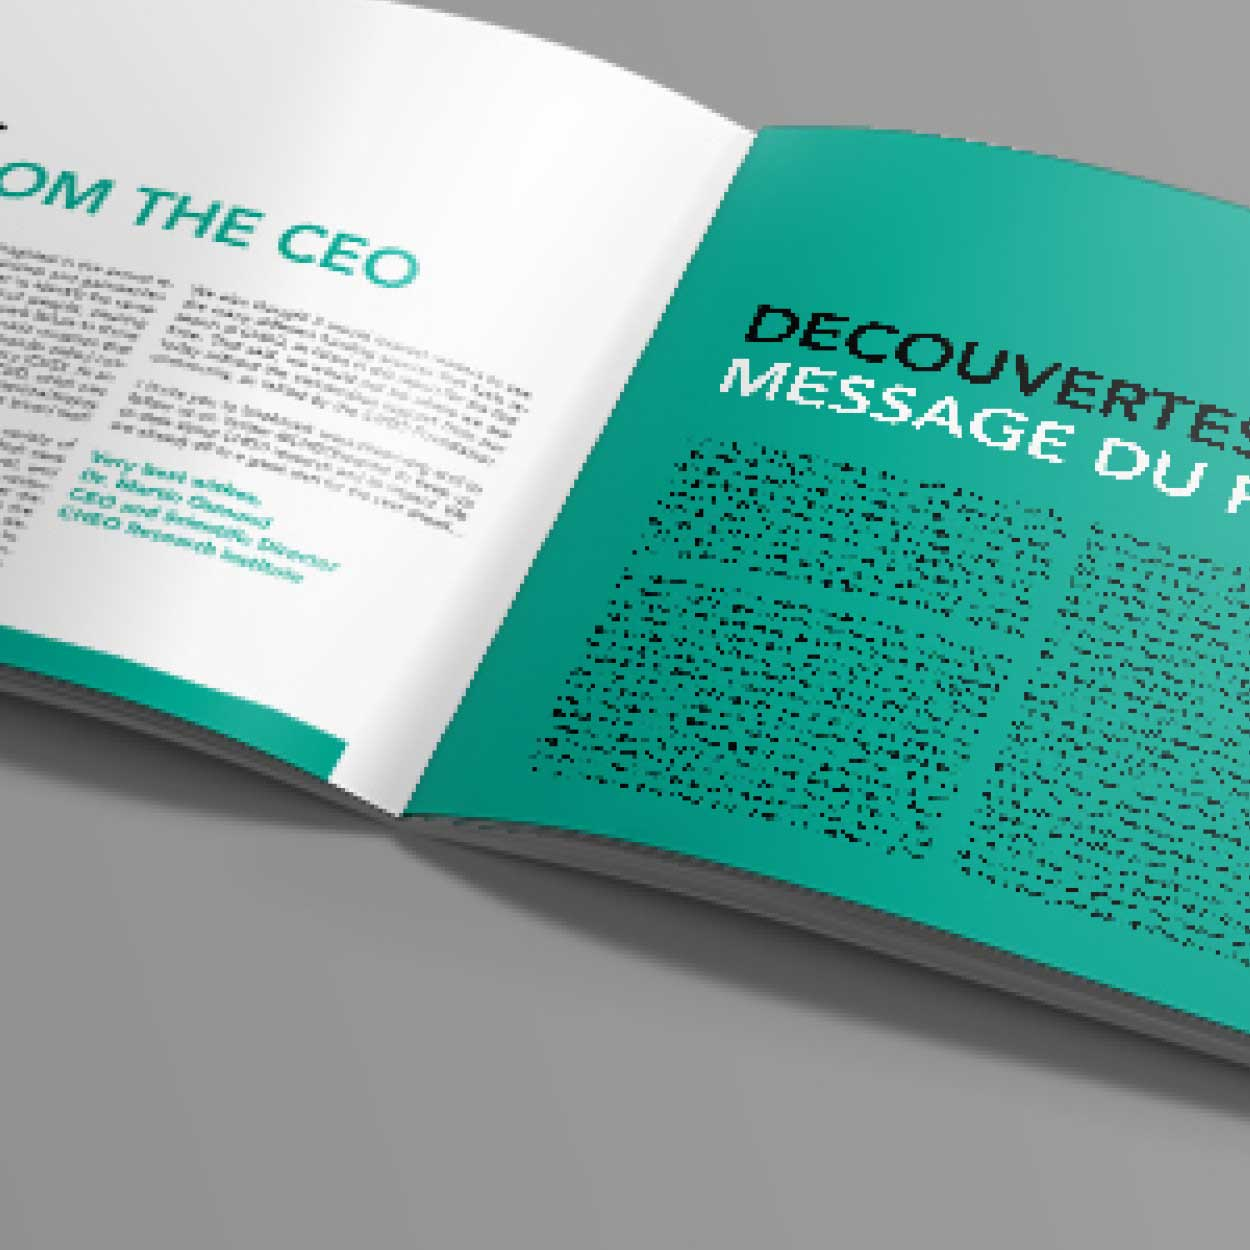
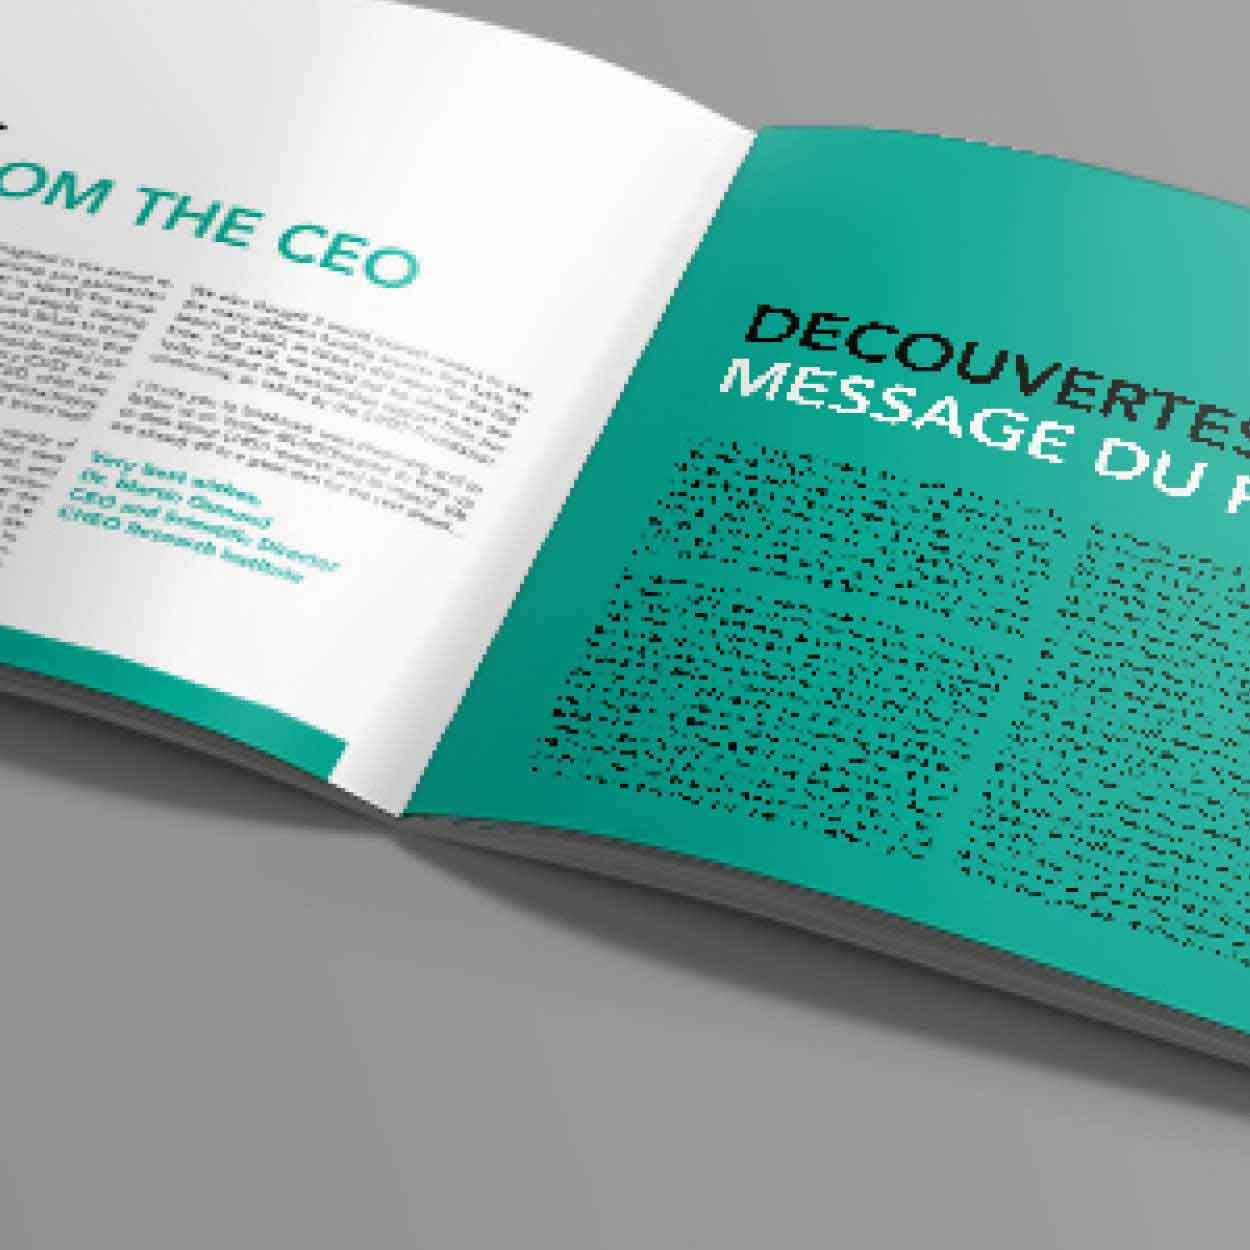
optimized images and took out unnecessary code

diff --git a/css/main.css b/css/main.css
@@ -82,16 +82,6 @@ li a:hover {
   font-weight: lighter;
 }
 
-figure {
-  width: 100%;
-  margin: 0;
-}
-
-figcaption {
-  text-align: center;
-  padding: 1em;
-}
-
 .info {
   text-decoration: none;
   color: black;
@@ -122,17 +112,6 @@ figcaption {
 .lightbox:target {
   outline: none;
   display:block;
-}
-
-#blanket {
-background-color:#111;
-opacity: 0.65;
-filter:alpha(opacity=65);
-position:absolute;
-z-index: 9001;
-top:0px;
-left:0px;
-width:100%;
 }
 
 .social {
